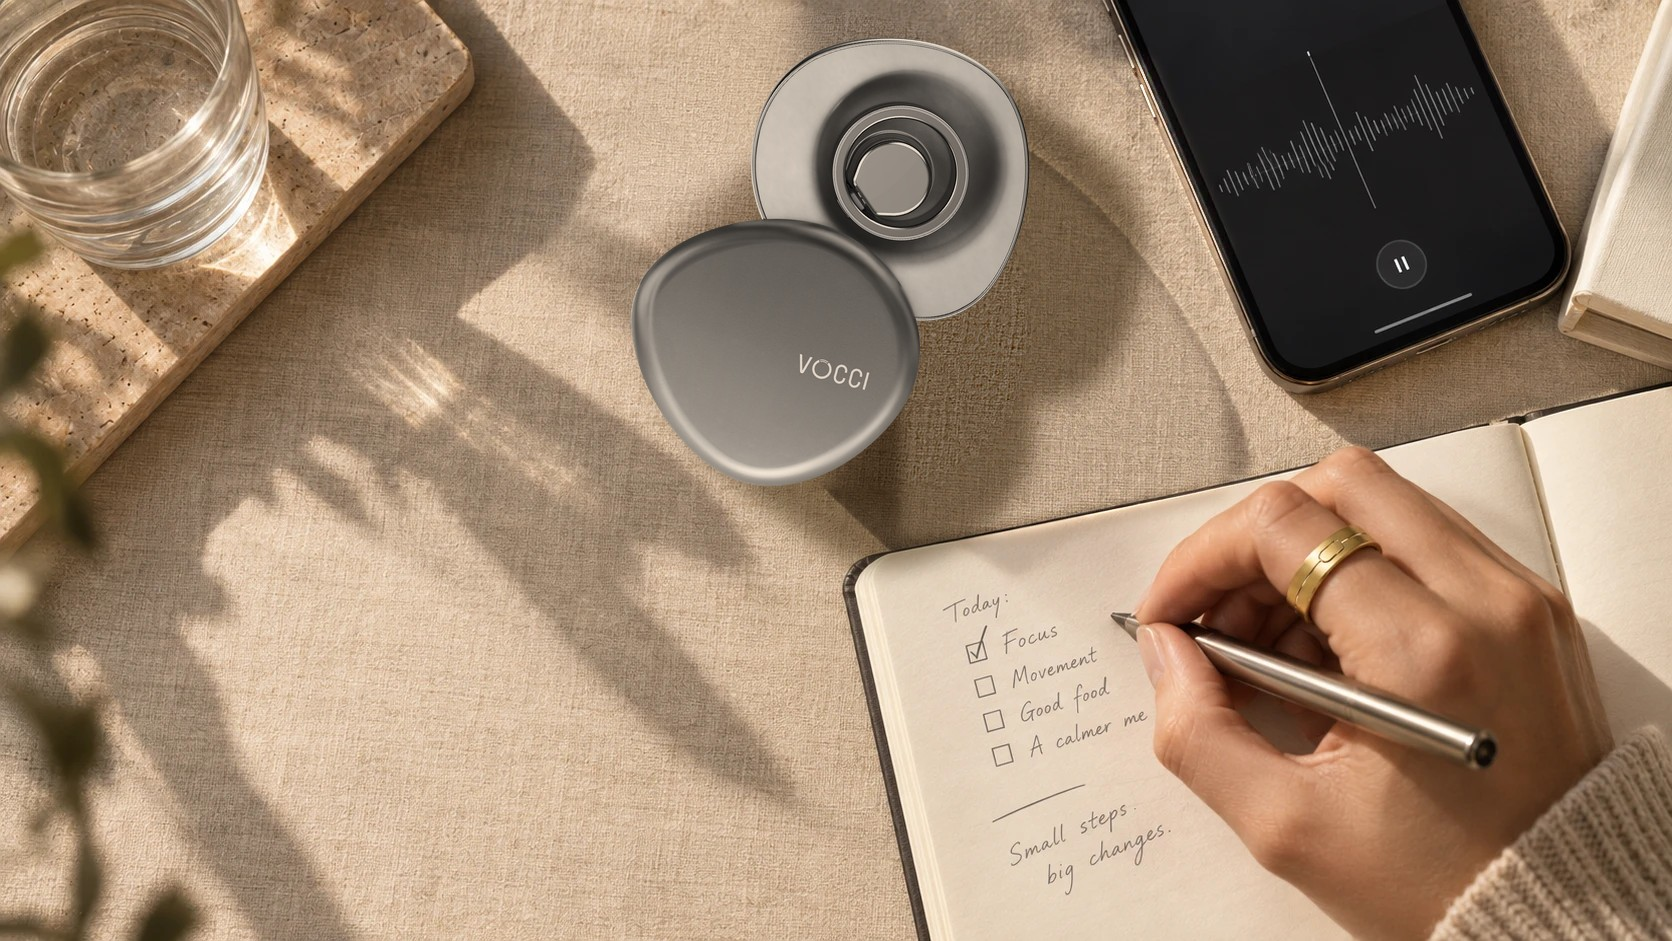
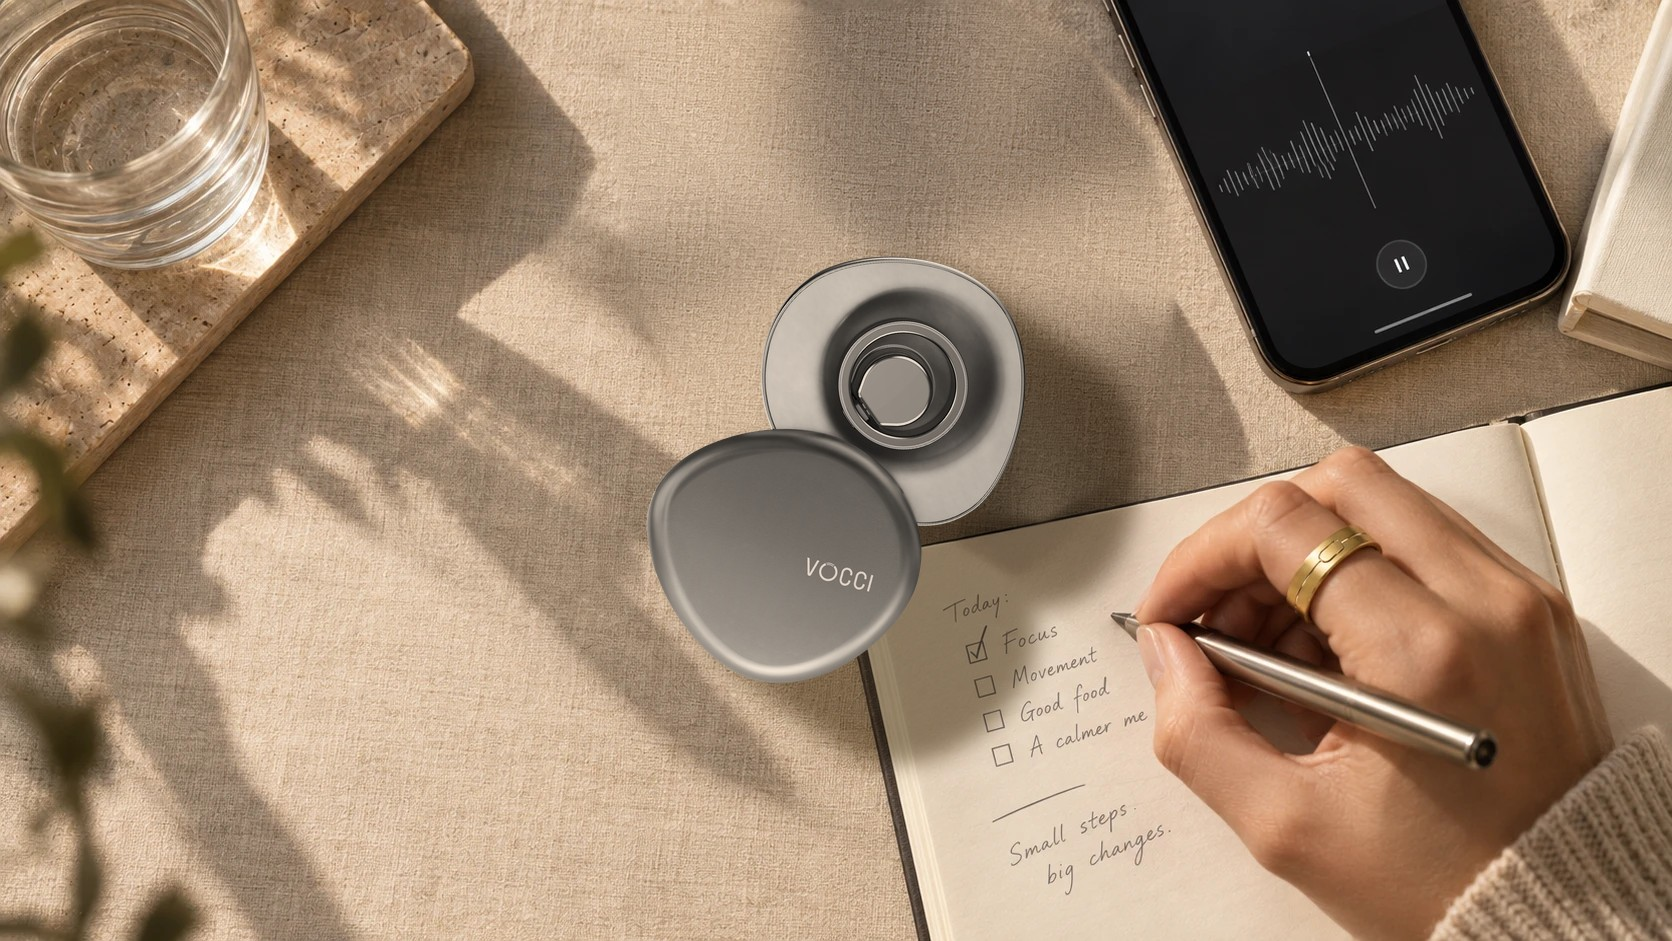
Hero: case centred on the grid crossing and layered above the grid lines
Claude-Session: https://claude.ai/code/session_01KHXjnjuLQ1Za3AG9ZUA7o2

Changed region(s): [[0.3732, 0.0308, 0.7464, 0.8321], [0.3732, 0.0308, 0.4043, 0.0616]]

diff --git a/homepage-0929/index.html b/homepage-0929/index.html
@@ -1997,8 +1997,11 @@ section.lined{background-image:none;isolation:isolate;overflow:hidden}
 /* 0929-z · privacy promises: description always visible */
 #privacy .pn.pv p{opacity:1;transform:none;margin-top:0;font-size:15px;line-height:1.55;color:var(--muted);max-width:30ch}
 #privacy .pn.pv{justify-content:flex-start}
+/* 0929-ab · hero: case cut-out above the grid lines (lines run under the case) */
+#hero .stage>.bgimg.hero-top{z-index:4;pointer-events:none}
+@media(max-width:700px){#hero .stage>.bgimg.hero-top{display:none}}
 
-</style><div class="tx" id="tx" aria-hidden="true"><i></i><i></i><i></i><i></i><i></i><i></i><i></i><i></i></div><div id="pagebg" aria-hidden="true"><i class="lq lq1"></i><i class="lq lq2"></i><i class="lq lq3"></i></div><main class="page gridall" data-ui="classic" data-skin="v2" data-round="0928"><section id="hero" data-bgop="0"><div class="stage "><img class="bgimg" fetchpriority="high" decoding="async" src="img3/hero-linen.jpg" alt="" style="object-position:50% 50%;opacity:1"><i class="vl" style="left:0"></i><i class="vl" style="left:25%"></i><i class="vl" style="left:50%"></i><i class="vl" style="left:75%"></i><i class="vl" style="left:calc(100% - 1px)"></i><i class="hl" style="top:0"></i><i class="sqr" style="left:0;top:0"></i><i class="sqr" style="left:25%;top:0"></i><i class="sqr" style="left:50%;top:0"></i><i class="sqr" style="left:75%;top:0"></i><i class="sqr" style="left:100%;top:0"></i><i class="hl" style="top:calc(100% - 1px)"></i><i class="sqr" style="left:0;top:calc(100% - 1px)"></i><i class="sqr" style="left:25%;top:calc(100% - 1px)"></i><i class="sqr" style="left:50%;top:calc(100% - 1px)"></i><i class="sqr" style="left:75%;top:calc(100% - 1px)"></i><i class="sqr" style="left:100%;top:calc(100% - 1px)"></i><nav class="nav"><div class="nav-right navbar"><a class="wordmark" href="#hero" aria-label="VOCCI"><svg xmlns="http://www.w3.org/2000/svg" viewBox="0 0 205 56" fill="none" stroke="currentColor" aria-hidden="true"><path stroke-width="7" stroke-linejoin="round" d="M4.2 2.5L18.6 49.2L33 2.5"/>
+</style><div class="tx" id="tx" aria-hidden="true"><i></i><i></i><i></i><i></i><i></i><i></i><i></i><i></i></div><div id="pagebg" aria-hidden="true"><i class="lq lq1"></i><i class="lq lq2"></i><i class="lq lq3"></i></div><main class="page gridall" data-ui="classic" data-skin="v2" data-round="0928"><section id="hero" data-bgop="0"><div class="stage "><img class="bgimg" fetchpriority="high" decoding="async" src="img3/hero-linen.jpg" alt="" style="object-position:50% 50%;opacity:1"><img class="bgimg hero-top" decoding="async" src="img3/hero-case.webp" alt="" aria-hidden="true" style="object-position:50% 50%;opacity:1"><i class="vl" style="left:0"></i><i class="vl" style="left:25%"></i><i class="vl" style="left:50%"></i><i class="vl" style="left:75%"></i><i class="vl" style="left:calc(100% - 1px)"></i><i class="hl" style="top:0"></i><i class="sqr" style="left:0;top:0"></i><i class="sqr" style="left:25%;top:0"></i><i class="sqr" style="left:50%;top:0"></i><i class="sqr" style="left:75%;top:0"></i><i class="sqr" style="left:100%;top:0"></i><i class="hl" style="top:calc(100% - 1px)"></i><i class="sqr" style="left:0;top:calc(100% - 1px)"></i><i class="sqr" style="left:25%;top:calc(100% - 1px)"></i><i class="sqr" style="left:50%;top:calc(100% - 1px)"></i><i class="sqr" style="left:75%;top:calc(100% - 1px)"></i><i class="sqr" style="left:100%;top:calc(100% - 1px)"></i><nav class="nav"><div class="nav-right navbar"><a class="wordmark" href="#hero" aria-label="VOCCI"><svg xmlns="http://www.w3.org/2000/svg" viewBox="0 0 205 56" fill="none" stroke="currentColor" aria-hidden="true"><path stroke-width="7" stroke-linejoin="round" d="M4.2 2.5L18.6 49.2L33 2.5"/>
 <path stroke-width="7" d="M82.57 7.37A24.00 24.00 0 1 1 56.43 7.37"/>
 <path stroke-width="2.6" d="M58.39 3.66A26.30 26.30 0 0 1 80.61 3.66"/>
 <path stroke-width="2.6" d="M60.21 8.45A21.20 21.20 0 0 1 78.79 8.45"/>
@@ -2111,14 +2114,14 @@ section.lined{background-image:none;isolation:isolate;overflow:hidden}
   }
 
   /* sangar-style scrubs · hero sinks under the page, footer surfaces beneath the FAQ */
-  var hero=document.getElementById('hero'), heroPn=hero&&hero.querySelector('.pn'), heroImg=hero&&hero.querySelector('.bgimg'), faq=document.getElementById('faq'), foot=document.getElementById('footer');
+  var hero=document.getElementById('hero'), heroPn=hero&&hero.querySelector('.pn'), heroImg=hero&&hero.querySelector('.bgimg'), heroImgs=hero?Array.prototype.slice.call(hero.querySelectorAll('.stage>.bgimg')):[], faq=document.getElementById('faq'), foot=document.getElementById('footer');
   /* same cover as hero → section 2: Where the ring earns its place pins, How it works slides over it */
   var s2=document.getElementById('scenes2'), how=document.getElementById('how'), s2Img=s2&&s2.querySelector('.stage>.bgimg'), s2Pn=s2?Array.prototype.slice.call(s2.querySelectorAll('.stage>.pn')):[];
   function scrub(){
     if(hero) hero.style.visibility=scrollY>hero.offsetHeight+20?'hidden':'visible';
     if(faq&&foot) foot.style.visibility=faq.getBoundingClientRect().bottom<innerHeight+40?'visible':'hidden';   // phones too: the sticky footer must not show through sections above it
     if(innerWidth<=700) return;
-    if(hero){ var p=Math.min(1,Math.max(0,scrollY/hero.offsetHeight));  if(heroPn&&heroPn.classList.contains('in')){ if(p>0) heroPn.classList.add('driven'); heroPn.style.translate='0 '+(p*140)+'px';heroPn.style.opacity=1-p*1.4;} if(heroImg){heroImg.style.filter='brightness('+(1-p*.45)+')';heroImg.style.scale=String(1+p*.12);} }
+    if(hero){ var p=Math.min(1,Math.max(0,scrollY/hero.offsetHeight));  if(heroPn&&heroPn.classList.contains('in')){ if(p>0) heroPn.classList.add('driven'); heroPn.style.translate='0 '+(p*140)+'px';heroPn.style.opacity=1-p*1.4;} heroImgs.forEach(function(im){ im.style.filter='brightness('+(1-p*.45)+')'; im.style.scale=String(1+p*.12); }); }
     if(s2&&how){ var hr=how.getBoundingClientRect(), sr=s2.getBoundingClientRect(); s2.style.top=Math.min(0,innerHeight-s2.offsetHeight)+'px'; s2.style.visibility=hr.top<-20?'hidden':'visible'; var p2=Math.min(1,Math.max(0,(sr.bottom-hr.top)/sr.height)); s2Pn.forEach(function(pn){ if(!pn.classList.contains('in')) return; if(p2>0) pn.classList.add('driven'); pn.style.translate='0 '+(p2*140)+'px'; pn.style.opacity=1-p2*1.4; }); if(s2Img){s2Img.style.filter='brightness('+(1-p2*.45)+')';s2Img.style.scale=String(1+p2*.12);} }
     if(faq&&foot){ var fb=faq.getBoundingClientRect().bottom, fh=foot.offsetHeight; foot.style.visibility=fb<innerHeight+40?'visible':'hidden'; var _u=1, q=Math.min(1,Math.max(0,(innerHeight-fb)/fh)); foot.querySelectorAll('.pn').forEach(function(pn,i){ if(q>0&&pn.classList.contains('in')) pn.classList.add('driven'); pn.style.translate='0 '+((1-q)*(-90-i*12))+'px'; pn.style.opacity=.25+q*.75; }); }
   }

diff --git a/homepage-0929/src/motion.js b/homepage-0929/src/motion.js
@@ -94,14 +94,14 @@
   }
 
   /* sangar-style scrubs · hero sinks under the page, footer surfaces beneath the FAQ */
-  var hero=document.getElementById('hero'), heroPn=hero&&hero.querySelector('.pn'), heroImg=hero&&hero.querySelector('.bgimg'), faq=document.getElementById('faq'), foot=document.getElementById('footer');
+  var hero=document.getElementById('hero'), heroPn=hero&&hero.querySelector('.pn'), heroImg=hero&&hero.querySelector('.bgimg'), heroImgs=hero?Array.prototype.slice.call(hero.querySelectorAll('.stage>.bgimg')):[], faq=document.getElementById('faq'), foot=document.getElementById('footer');
   /* same cover as hero → section 2: Where the ring earns its place pins, How it works slides over it */
   var s2=document.getElementById('scenes2'), how=document.getElementById('how'), s2Img=s2&&s2.querySelector('.stage>.bgimg'), s2Pn=s2?Array.prototype.slice.call(s2.querySelectorAll('.stage>.pn')):[];
   function scrub(){
     if(hero) hero.style.visibility=scrollY>hero.offsetHeight+20?'hidden':'visible';
     if(faq&&foot) foot.style.visibility=faq.getBoundingClientRect().bottom<innerHeight+40?'visible':'hidden';   // phones too: the sticky footer must not show through sections above it
     if(innerWidth<=700) return;
-    if(hero){ var p=Math.min(1,Math.max(0,scrollY/hero.offsetHeight));  if(heroPn&&heroPn.classList.contains('in')){ if(p>0) heroPn.classList.add('driven'); heroPn.style.translate='0 '+(p*140)+'px';heroPn.style.opacity=1-p*1.4;} if(heroImg){heroImg.style.filter='brightness('+(1-p*.45)+')';heroImg.style.scale=String(1+p*.12);} }
+    if(hero){ var p=Math.min(1,Math.max(0,scrollY/hero.offsetHeight));  if(heroPn&&heroPn.classList.contains('in')){ if(p>0) heroPn.classList.add('driven'); heroPn.style.translate='0 '+(p*140)+'px';heroPn.style.opacity=1-p*1.4;} heroImgs.forEach(function(im){ im.style.filter='brightness('+(1-p*.45)+')'; im.style.scale=String(1+p*.12); }); }
     if(s2&&how){ var hr=how.getBoundingClientRect(), sr=s2.getBoundingClientRect(); s2.style.top=Math.min(0,innerHeight-s2.offsetHeight)+'px'; s2.style.visibility=hr.top<-20?'hidden':'visible'; var p2=Math.min(1,Math.max(0,(sr.bottom-hr.top)/sr.height)); s2Pn.forEach(function(pn){ if(!pn.classList.contains('in')) return; if(p2>0) pn.classList.add('driven'); pn.style.translate='0 '+(p2*140)+'px'; pn.style.opacity=1-p2*1.4; }); if(s2Img){s2Img.style.filter='brightness('+(1-p2*.45)+')';s2Img.style.scale=String(1+p2*.12);} }
     if(faq&&foot){ var fb=faq.getBoundingClientRect().bottom, fh=foot.offsetHeight; foot.style.visibility=fb<innerHeight+40?'visible':'hidden'; var _u=1, q=Math.min(1,Math.max(0,(innerHeight-fb)/fh)); foot.querySelectorAll('.pn').forEach(function(pn,i){ if(q>0&&pn.classList.contains('in')) pn.classList.add('driven'); pn.style.translate='0 '+((1-q)*(-90-i*12))+'px'; pn.style.opacity=.25+q*.75; }); }
   }

diff --git a/homepage-0929/src/override.css b/homepage-0929/src/override.css
@@ -627,3 +627,6 @@
 /* 0929-z · privacy promises: description always visible */
 #privacy .pn.pv p{opacity:1;transform:none;margin-top:0;font-size:15px;line-height:1.55;color:var(--muted);max-width:30ch}
 #privacy .pn.pv{justify-content:flex-start}
+/* 0929-ab · hero: case cut-out above the grid lines (lines run under the case) */
+#hero .stage>.bgimg.hero-top{z-index:4;pointer-events:none}
+@media(max-width:700px){#hero .stage>.bgimg.hero-top{display:none}}

diff --git a/homepage-0929/src/patch.py b/homepage-0929/src/patch.py
@@ -360,6 +360,11 @@ t = t.replace('<div class="pn lazy " style="--gc:4/span 1;--gr:1/span 1;', '<div
 assert t.count('class="pn pv"') == 3
 s = s[:m.start()] + t + s[m.end():]
 
+# ---------- 0929-ab · hero: the case sits ON the grid — a cut-out of it (same canvas as the photo) above the grid lines ----------
+s, n = re.subn(r'(<section id="hero"[^>]*><div class="stage[^"]*"><img class="bgimg"[^>]*src="img3/hero-linen.jpg"[^>]*>)',
+              r'\1<img class="bgimg hero-top" decoding="async" src="img3/hero-case.webp" alt="" aria-hidden="true" style="object-position:50% 50%;opacity:1">', s, count=1)
+assert n == 1
+
 # ---------- 0929-m · Vocci logo (vector redraw of the mark in Vocci_3Dmodel_demo) replaces the typed wordmarks ----------
 logo = re.sub(r'<title>.*?</title>\n?', '', (R/'img3/vocci-logo.svg').read_text()).replace('role="img" aria-label="VOCCI"', 'aria-hidden="true"').strip()
 assert s.count('<a class="wordmark" href="#hero">VOCCI</a>') == 1 and s.count('<span class="wmbig split">VOCCI</span>') == 1
